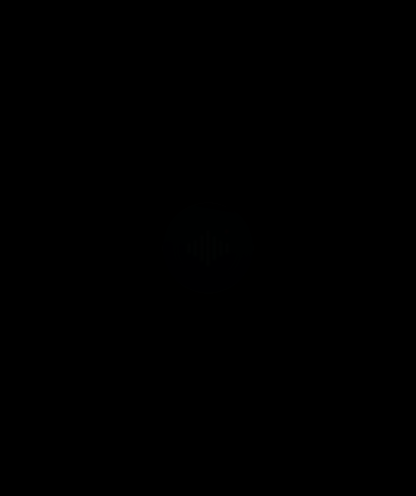
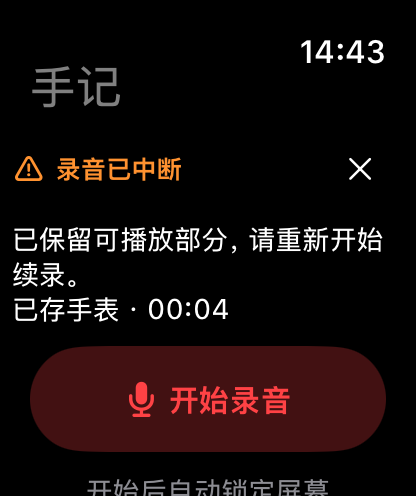
Capture recovery evidence after the initial render

diff --git a/Tests/RecordingExperienceRegression.py b/Tests/RecordingExperienceRegression.py
@@ -49,6 +49,7 @@ def main():
     run("launch", "--terminate-running-process", args.watch, bundle,
         "-journal-recording-ui", "-journal-recording-verify", *fixture)
     evidence(root / "cold-start-result.json", "watch-recording-cold-start")
+    time.sleep(1)  # Cold-start evidence is written before SwiftUI finishes its first visible frame.
     run("io", args.watch, "screenshot", str(output / "watch-recording-recovery.png"))
     run("privacy", args.watch, "revoke", "microphone", bundle)
     permission_result = container / "Library/Application Support/WristJournalWatchUITests/simulation-result.json"
